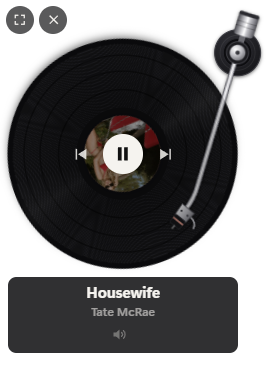
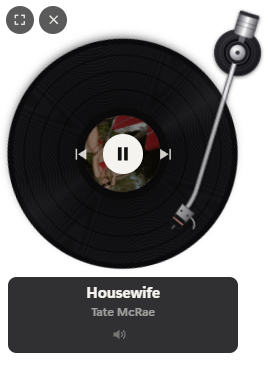
Más capturas en el README: letra, buscador, artista y sin cuenta
Capturas en 1920x1080 con canciones reales del Billboard Hot 100. La captura con letra usa «Amazing Grace» (letra de dominio público).

Changed region(s): [[0.2857, 0.2973, 0.5714, 0.5351], [0.4571, 0.4459, 0.5429, 0.5054]]

diff --git a/promo/scripts/readme-shots.js b/promo/scripts/readme-shots.js
@@ -1,6 +1,6 @@
-// Capturas del README con canciones reales del Billboard Hot 100 (portadas oficiales vía Spotify).
-// Abre la app real en modo demo, le pasa esos datos y fotografía la pantalla completa, el modo
-// protección y el mini vinilo. Necesita la cuenta conectada en Vinilify (solo hace búsquedas).
+// Capturas del README con canciones reales (Billboard Hot 100, portadas oficiales vía Spotify).
+// Abre la app real en modo demo, le pasa esos datos y fotografía cada función. El buscador y la vista
+// de artista usan búsquedas reales con la cuenta conectada en Vinilify (solo lectura).
 // Uso (con Vinilify cerrado): electron scripts/readme-shots.js   (desde la carpeta promo)
 const { app, BrowserWindow, ipcMain } = require('electron');
 const fs = require('fs');
@@ -17,7 +17,11 @@ const SONGS = {
   protect: ['Expectations', 'Olivia Rodrigo'],
   next: [['Solar Eclipse', 'Drake'], ['Bby Wow', 'KAROL G'], ['Petal', 'Ariana Grande'], ['Lies', 'Zach Bryan'], ['Babydoll', 'Dominic Fike'], ['Nicole Kidman', 'Adéla']],
   recent: [["Choosin' Texas", 'Ella Langley'], ['Been By Now', 'Morgan Wallen'], ['Babylon', 'Taylor Swift'], ['Last Thing You Need', 'Morgan Wallen']],
+  // Para la foto con letra: grabación famosa de una canción con letra de dominio público (John Newton, 1779).
+  lyrics: ['Amazing Grace', 'Judy Collins'],
 };
+const SEARCH_QUERY = 'Bad Bunny';
+const LYRIC_FOCUS = /lost/i; // línea que queda resaltada en la foto
 
 const simplify = (s) => s.normalize('NFKD').replace(/[̀-ͯ]/g, '').toLowerCase().replace(/[^a-z0-9]+/g, ' ').trim();
 const wait = (ms) => new Promise((r) => setTimeout(r, ms));
@@ -27,6 +31,11 @@ const wait = (ms) => new Promise((r) => setTimeout(r, ms));
 const realUserData = path.join(app.getPath('appData'), 'Vinilify');
 app.setPath('userData', realUserData);
 process.argv.push('--demo', '--full');
+
+process.on('unhandledRejection', (err) => {
+  console.log('Error:', err?.message || err);
+  app.exit(1);
+});
 
 async function findTrack(spotify, [name, artist]) {
   const r = await spotify.get('/search?' + new URLSearchParams({ q: `${name} ${artist}`, type: 'track', limit: '10' }));
@@ -38,14 +47,22 @@ async function findTrack(spotify, [name, artist]) {
   console.log('✓', t.name, '—', t.artists.map((a) => a.name).join(', '));
   return {
     id: t.id, uri: t.uri, name: t.name, artists: t.artists.map((a) => a.name).join(', '), album: t.album.name,
-    cover: images[0]?.url, thumb: (images[1] || images[0])?.url, durationMs: t.duration_ms, url: '',
+    albumUri: t.album.uri, cover: images[0]?.url, thumb: (images[1] || images[0])?.url, durationMs: t.duration_ms, url: '',
   };
 }
 
-process.on('unhandledRejection', (err) => {
-  console.log('Error:', err?.message || err);
-  app.exit(1);
-});
+// Letra sincronizada desde LRCLIB (la misma fuente que usa la app).
+async function lrclibLines(name, artist) {
+  const res = await fetch('https://lrclib.net/api/search?' + new URLSearchParams({ track_name: name, artist_name: artist }), {
+    headers: { 'User-Agent': 'Vinilify/0.1 (capturas del README)' },
+  });
+  const found = (await res.json()).find((x) => x.syncedLyrics);
+  if (!found) throw new Error(`LRCLIB no tiene letra sincronizada de «${name}»`);
+  return found.syncedLyrics.split('\n').map((raw) => {
+    const m = raw.match(/\[(\d+):(\d+(?:\.\d+)?)\]\s*(.*)/);
+    return m ? { t: Math.round((Number(m[1]) * 60 + Number(m[2])) * 1000), text: m[3].trim() } : null;
+  }).filter(Boolean);
+}
 
 app.whenReady().then(async () => {
   const spotify = new Spotify(path.join(realUserData, 'spotify.json'));
@@ -57,56 +74,100 @@ app.whenReady().then(async () => {
   const main = await findTrack(spotify, SONGS.main);
   const mini = await findTrack(spotify, SONGS.mini);
   const protect = await findTrack(spotify, SONGS.protect);
+  const sung = await findTrack(spotify, SONGS.lyrics);
   const next = [];
   for (const s of SONGS.next) next.push(await findTrack(spotify, s));
   const recent = [];
   for (const s of SONGS.recent) recent.push(await findTrack(spotify, s));
+  const lines = await lrclibLines(...SONGS.lyrics);
+  console.log('✓ letra:', lines.length, 'líneas');
 
   require(path.join(ROOT, 'src/main.js'));
   await wait(3500);
   const find = (mode) => BrowserWindow.getAllWindows().find((w) => w.webContents.getURL().includes(`mode=${mode}`));
   const full = find('full');
   if (!full) throw new Error('No se abrió la pantalla completa');
+  const js = (win, code) => win.webContents.executeJavaScript(code);
+  full.webContents.on('console-message', (e) => console.log('[consola]', e.message));
+  full.on('closed', () => console.log('[aviso] se cerró la pantalla completa'));
 
-  const stateFor = (track, progress) => ({
+  const stateFor = (track, progressMs, extra = {}) => ({
     source: 'api', status: 'playing', isPlaying: true, canSeek: true, canLike: true, liked: true,
     shuffle: false, repeat: 'off', volume: 70, supportsVolume: true, lyrics: null,
-    track, durationMs: track.durationMs, progressMs: Math.round(track.durationMs * progress), progressAt: Date.now(),
-    queue: next, recent,
+    track, durationMs: track.durationMs, progressMs: Math.round(progressMs), progressAt: Date.now(),
+    queue: next, recent, ...extra,
   });
   const show = async (win, patch) => {
     win.webContents.send('state', patch);
     await wait(2500); // fundido de portada + carga de imágenes
   };
-  const save = async (win, name, width) => {
-    let img = await win.webContents.capturePage();
-    if (width) img = img.resize({ width, quality: 'best' });
-    fs.writeFileSync(path.join(DOCS, name), img.toPNG());
-    console.log('→', path.join('docs', name));
+  const save = async (win, name, format = 'jpg') => {
+    const img = await win.webContents.capturePage();
+    fs.writeFileSync(path.join(DOCS, name), format === 'png' ? img.toPNG() : img.toJPEG(92));
+    console.log('→', path.join('docs', name), img.getSize());
   };
+  const awake = (on) => js(full, `document.body.classList.${on ? 'add' : 'remove'}('awake')`);
 
-  // Pantalla completa
-  await show(full, stateFor(main, 0.36));
-  await full.webContents.executeJavaScript("document.body.classList.add('awake')");
-  await wait(400);
-  await save(full, 'pantalla-completa.png', 1600);
+  // La preferencia de letra del usuario se guarda en el perfil real: se respeta y se restaura al final.
+  const lyricsPref = await js(full, "localStorage.getItem('vinilify.lyrics')");
 
-  // Modo protección
-  await full.webContents.executeJavaScript("document.body.classList.remove('awake')");
-  await show(full, stateFor(protect, 0.52));
-  await full.webContents.executeJavaScript("document.getElementById('btn-protect').click()");
-  await wait(2200);
-  await save(full, 'modo-proteccion.png', 1600);
+  // 1) Pantalla completa
+  await show(full, stateFor(main, main.durationMs * 0.36));
+  await awake(true);
+  await wait(500);
+  await save(full, 'pantalla-completa.jpg');
+  await awake(false);
 
-  // Mini vinilo (con el mouse encima: título y volumen). Se abre con el botón "cambiar a mini".
+  // 2) Letra sincronizada
+  const focus = lines.find((l) => LYRIC_FOCUS.test(l.text)) || lines[Math.floor(lines.length / 3)];
+  await show(full, stateFor(sung, focus.t + 600, { lyrics: { id: sung.id, lines }, queue: next.slice(2), recent }));
+  await js(full, "if (document.getElementById('lyrics').hidden) document.getElementById('btn-lyrics').click()");
+  await wait(1500);
+  await save(full, 'letra.jpg');
+  await js(full, "if (!document.getElementById('lyrics').hidden) document.getElementById('btn-lyrics').click()");
+
+  // 3) Buscador y 4) vista de artista (búsquedas reales)
+  await show(full, stateFor(main, main.durationMs * 0.4));
+  await js(full, `document.querySelector('[data-action=search]').click();
+    const i = document.getElementById('search-input'); i.value = ${JSON.stringify(SEARCH_QUERY)}; i.dispatchEvent(new Event('input'));`);
+  await wait(4000);
+  console.log('[buscador] panel oculto:', await js(full, "document.getElementById('search').hidden"), '| modal oculto:', await js(full, "document.getElementById('connect').hidden"), '| fuente:', await js(full, 'document.body.dataset.status'));
+  await save(full, 'buscador.jpg');
+  await js(full, "document.querySelector('.tile[data-kind=artist]').click()");
+  await wait(5000);
+  await save(full, 'artista.jpg');
+  await js(full, "document.querySelector('[data-action=search-close]').click()");
+
+  // 5) Sin cuenta: al pulsar Buscar aparece la guía para conectar la API (opcional)
+  await show(full, stateFor(main, main.durationMs * 0.45, { source: 'windows', queue: [], canLike: false, liked: null }));
+  await js(full, "document.querySelector('[data-action=search]').click()");
+  await wait(1200);
+  // La guía rellena el Client ID guardado: en una imagen pública debe quedar vacío.
+  await js(full, "document.getElementById('connect-id').value = ''; document.activeElement?.blur()");
+  await wait(200);
+  await save(full, 'sin-cuenta.jpg');
+  await js(full, "document.querySelector('[data-action=connect-close]').click()");
+
+  // 6) Modo protección
+  await show(full, stateFor(protect, protect.durationMs * 0.52));
+  await js(full, "document.getElementById('btn-protect').click()");
+  await wait(3200);
+  // Sin los controles de arriba (aparecen solo al mover el mouse).
+  await js(full, "document.body.classList.remove('awake'); document.body.classList.add('sleepy')");
+  await wait(600);
+  await save(full, 'modo-proteccion.jpg');
+
+  await js(full, lyricsPref === null ? "localStorage.removeItem('vinilify.lyrics')" : `localStorage.setItem('vinilify.lyrics', ${JSON.stringify(lyricsPref)})`);
+
+  // 7) Mini vinilo (con el mouse encima: título y volumen). Se abre con el botón "cambiar a mini".
   ipcMain.emit('full:to-mini', {});
   await wait(2500);
   const miniWin = find('mini');
   if (!miniWin) throw new Error('No se abrió el mini vinilo');
   miniWin.show();
-  await show(miniWin, stateFor(mini, 0.2));
-  await miniWin.webContents.executeJavaScript("document.body.classList.add('awake')");
+  await show(miniWin, stateFor(mini, mini.durationMs * 0.2));
+  await js(miniWin, "document.body.classList.add('awake')");
   await wait(1800); // que termine el fundido de la tarjeta del título
-  await save(miniWin, 'mini.png');
+  await save(miniWin, 'mini.png', 'png');
   app.exit(0);
 });

diff --git a/README.md b/README.md
@@ -2,7 +2,7 @@
 
 Lo que suena en tu Spotify, como un vinilo girando. Sin cuentas ni configuración: abre Spotify en tu PC y el vinilo empieza a girar.
 
-![Vinilify en pantalla completa](docs/pantalla-completa.png)
+![Vinilify en pantalla completa](docs/pantalla-completa.jpg)
 
 - **Mini vinilo flotante**: siempre por encima de las demás ventanas. Se arrastra con el mouse; al pasar por encima muestra el tema, los controles y el volumen. Doble clic abre la pantalla completa.
 - **Pantalla completa**: se abre en la pantalla que elijas (por defecto la secundaria). Muestra el vinilo con su funda, el brazo que avanza con la canción, el fondo con los colores de la portada, la **letra sincronizada** y las portadas de lo que sonó antes. Tiene aleatorio, repetir y Me gusta. Mientras está abierta, el monitor no se apaga solo.
@@ -10,7 +10,11 @@ Lo que suena en tu Spotify, como un vinilo girando. Sin cuentas ni configuració
 
 | Mini vinilo | Modo protección |
 |---|---|
-| <img src="docs/mini.png" width="240" alt="Mini vinilo flotante"> | <img src="docs/modo-proteccion.png" width="520" alt="Modo protección de pantalla"> |
+| <img src="docs/mini.png" width="240" alt="Mini vinilo flotante"> | <img src="docs/modo-proteccion.jpg" width="560" alt="Modo protección de pantalla"> |
+
+**Letra sincronizada**, oculta por defecto: se activa con el icono junto al volumen.
+
+![Letra sincronizada](docs/letra.jpg)
 
 Todo se maneja desde el icono de Vinilify en la bandeja del sistema: clic derecho abre el menú y doble clic muestra el mini vinilo. También hay menú con clic derecho sobre el vinilo.
 
@@ -35,6 +39,16 @@ Vinilify lee la app de escritorio de Spotify a través de Windows (lo mismo que 
 | Aleatorio y repetir | Funciona aunque Spotify suene en otro dispositivo |
 | Letras sincronizadas | |
 | Recientes (Vinilify guarda su propio historial) | |
+
+**Con la cuenta conectada:** buscador de canciones, artistas, álbumes y playlists; al abrir un artista aparecen sus canciones, con «Ver más» para seguir cargando.
+
+| Buscador | Artista |
+|---|---|
+| ![Buscador](docs/buscador.jpg) | ![Vista de artista](docs/artista.jpg) |
+
+**Sin cuenta:** todo lo demás funciona igual. Al pulsar Buscar, Vinilify explica qué hace falta y guía paso a paso para conectarla.
+
+![Guía para conectar la cuenta](docs/sin-cuenta.jpg)
 
 Las letras vienen de [LRCLIB](https://lrclib.net) (gratis, sin cuenta).
 
@@ -81,3 +95,5 @@ Hecho con [Electron](https://www.electronjs.org/). La lectura de Windows está e
 ## Licencia
 
 [MIT](LICENSE)
+
+Las capturas muestran canciones del Billboard Hot 100 (octubre de 2026) con sus portadas oficiales, © de sus artistas y sellos. La letra de la captura es «Amazing Grace» (John Newton, 1779), de dominio público.
